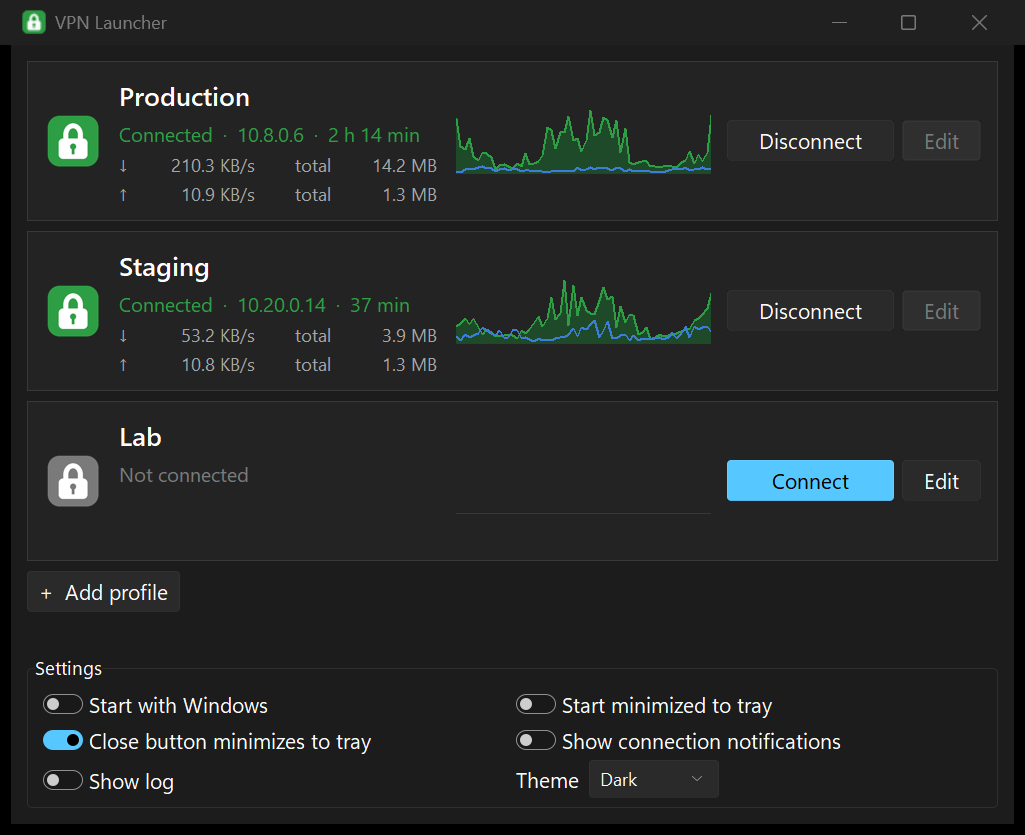
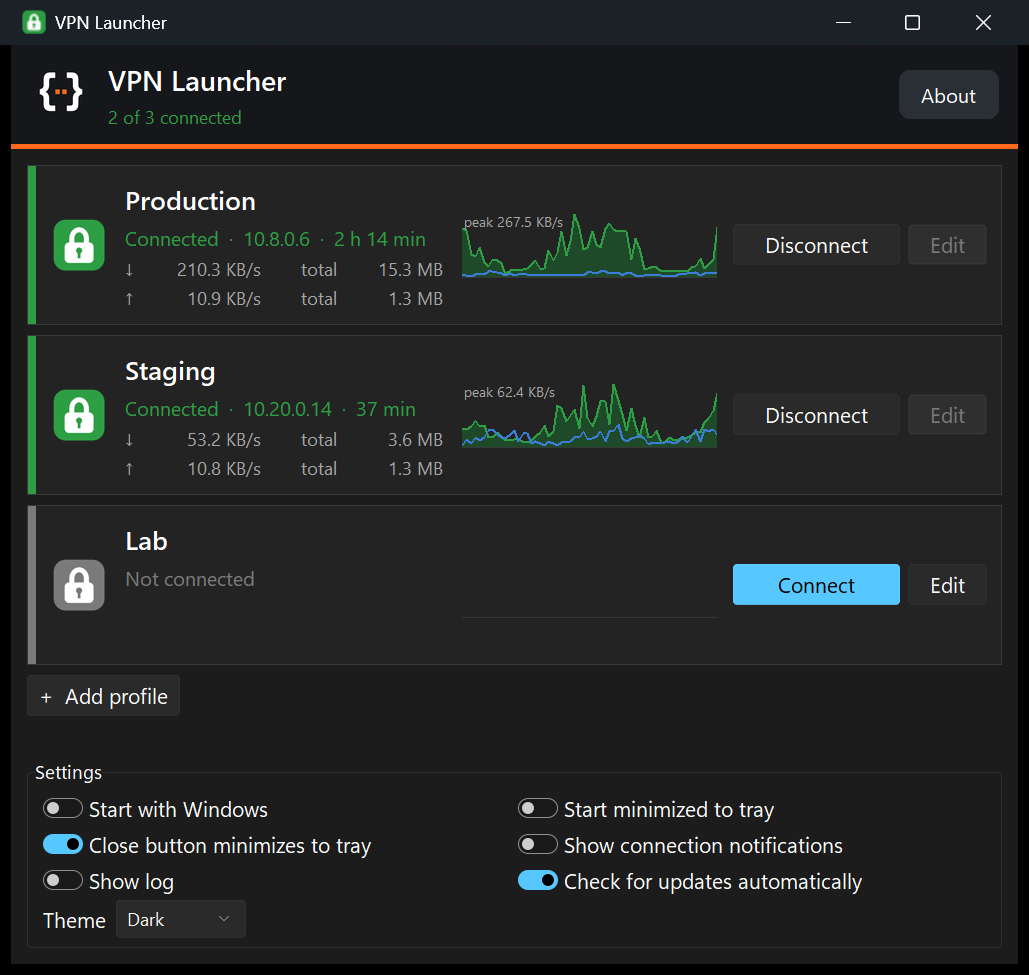
Add the About window, a branded header and self-update
The window gets a header in the Mancubus Lab colours with the logo and a connection summary, an About window with the version and a link to the site, a state stripe on every card and the peak value on the traffic graph. The launcher checks the repository's releases and installs a newer one on request after verifying its SHA-256 checksum; the build embeds the version. Profiles imported from a file are copied to the work folder for the connection, because OpenVPN started through its service exits on a profile under %APPDATA%.

diff --git a/src/vpn_launcher.py b/src/vpn_launcher.py
@@ -31,7 +31,9 @@ import sys
 import threading
 import time
 import tkinter as tk
+import urllib.request
 import uuid
+import webbrowser
 from pathlib import Path
 from tkinter import filedialog, font as tkfont, messagebox, ttk
 
@@ -90,6 +92,11 @@ PALETTES = {
              "text": "#ffffff", "log": "#d4d4d4"},
 }
 UPLOAD = "#3b7dd8"
+# Mancubus Lab colours for the header: the same in both themes.
+BRAND = {"bg": "#15171a", "ink": "#ffffff", "muted": "#b9c0c9", "accent": "#ff681c"}
+WEBSITE = "https://mancubus-lab.com/"
+REPOSITORY = "mancubus-lab/vpn-launcher"  # releases of this repository are the update channel
+UPDATE_CHECK_MS = 6 * 60 * 60 * 1000
 NIIF_USER_LARGE = 0x4 | 0x20  # NIIF_USER | NIIF_LARGE_ICON: the notification shows our icon, not the blue "i"
 # Setting key, checkbox label, default value.
 CHECKBOXES = [
@@ -98,8 +105,85 @@ CHECKBOXES = [
     ("close_to_tray", "Close button minimizes to tray" if WINDOWS else "Close button hides to the menu bar", True),
     ("notify", "Show connection notifications", True),
     ("show_log", "Show log", False),
+    ("check_updates", "Check for updates automatically", True),
 ]
 THEMES = {"Auto": "auto", "Light": "light", "Dark": "dark"}  # label in the settings -> stored value
+
+
+def resource(name):
+    """A bundled file: next to the code in a build, in assets/ when running from a checkout."""
+    bundled = RESOURCES / name
+    return bundled if bundled.exists() else RESOURCES.parent / "assets" / name
+
+
+# The build writes the release version into version.txt; a checkout has none and never offers updates.
+VERSION = resource("version.txt").read_text().strip() if resource("version.txt").exists() else "dev"
+
+
+def parse_version(text):
+    """(1, 2, 3) for "1.2.3" or "v1.2.3"; None for anything else, including "dev"."""
+    found = re.fullmatch(r"v?(\d+)\.(\d+)\.(\d+)", text.strip())
+    return tuple(int(part) for part in found.groups()) if found else None
+
+
+def find_update(release, current, suffix):
+    """(version, installer URL, checksum URL) when a GitHub release is newer than the running version.
+
+    suffix picks the download for this system. Only files of our own repository's releases are accepted,
+    and only together with their .sha256 file.
+    """
+    latest, running = parse_version(str(release.get("tag_name", ""))), parse_version(current)
+    if not latest or not running or latest <= running:
+        return None
+    prefix = f"https://github.com/{REPOSITORY}/releases/download/"
+    links = {asset.get("name", ""): asset.get("browser_download_url", "") for asset in release.get("assets", [])}
+    links = {name: link for name, link in links.items() if link.startswith(prefix)}
+    installer = next((name for name in links if name.endswith(suffix)), None)
+    if not installer or installer + ".sha256" not in links:
+        return None
+    return ".".join(str(part) for part in latest), links[installer], links[installer + ".sha256"]
+
+
+_sample_release = {"tag_name": "v1.2.0", "assets": [
+    {"name": name, "browser_download_url": f"https://github.com/{REPOSITORY}/releases/download/v1.2.0/{name}"}
+    for name in ("Setup-1.2.0.exe", "Setup-1.2.0.exe.sha256", "App-1.2.0-arm64.dmg")]}
+assert parse_version("v1.10.3") == (1, 10, 3) and parse_version("dev") is None
+assert find_update(_sample_release, "1.1.9", ".exe")[0] == "1.2.0"
+assert find_update(_sample_release, "1.2.0", ".exe") is None and find_update(_sample_release, "dev", ".exe") is None
+assert find_update(_sample_release, "1.0.0", ".dmg") is None  # no checksum file next to it
+assert find_update({"tag_name": "v9.0.0", "assets": [{"name": "x.exe", "browser_download_url": "https://evil/x.exe"},
+                                                     {"name": "x.exe.sha256", "browser_download_url": "https://evil/s"}]},
+                   "1.0.0", ".exe") is None
+
+
+def fetch(url, limit=200_000_000):
+    """Downloads a URL over HTTPS and returns the bytes."""
+    request = urllib.request.Request(url, headers={"User-Agent": "vpn-launcher", "Accept": "application/vnd.github+json"})
+    with urllib.request.urlopen(request, timeout=30) as reply:
+        return reply.read(limit)
+
+
+def check_update():
+    """The newer release for this system as find_update() describes it, or None (also when offline)."""
+    try:
+        release = json.loads(fetch(f"https://api.github.com/repos/{REPOSITORY}/releases/latest"))
+        return find_update(release, VERSION, ".exe" if WINDOWS else "-arm64.dmg")
+    except (OSError, ValueError, AttributeError):
+        return None
+
+
+def download_update(update):
+    """Downloads the installer of an update, checks it against its SHA-256 file and returns the path."""
+    _, installer_url, checksum_url = update
+    folder = WORK / "update"
+    folder.mkdir(parents=True, exist_ok=True)
+    expected = fetch(checksum_url, 1000).decode("ascii", "replace").split()[0].lower()
+    data = fetch(installer_url)
+    if hashlib.sha256(data).hexdigest() != expected:
+        raise ValueError("The downloaded update does not match its checksum.")
+    path = folder / installer_url.rsplit("/", 1)[-1]
+    path.write_bytes(data)
+    return path
 
 
 def icon_path(state):
@@ -511,6 +595,76 @@ def field(parent, row, label, variable, **options):
     return entry
 
 
+def pill_button(parent, text, command, primary=False):
+    """Rounded button for the dark branded areas, where the themed ttk buttons look out of place.
+
+    The shape is a picture drawn with Pillow (Tk has no rounded widgets) with the text centred on it;
+    primary=True gives the orange accent button, otherwise a quiet dark one.
+    """
+    scale = display_scale(parent)
+    font = tkfont.Font(family="Segoe UI", size=10)
+    width = font.measure(text) + round(30 * scale)
+    height = font.metrics("linespace") + round(14 * scale)
+
+    def shape(color):
+        # Drawn four times larger and scaled down: that is what smooths the corners.
+        large = Image.new("RGBA", (width * 4, height * 4), (0, 0, 0, 0))
+        ImageDraw.Draw(large).rounded_rectangle((0, 0, width * 4 - 1, height * 4 - 1),
+                                                radius=round(7 * scale) * 4, fill=color)
+        return ImageTk.PhotoImage(large.resize((width, height), Image.LANCZOS))
+
+    normal, hover = (shape(BRAND["accent"]), shape("#ff8647")) if primary else (shape("#2a2f36"), shape("#3b424c"))
+    button = tk.Label(parent, image=normal, text=text, compound="center", font=font, fg=BRAND["ink"],
+                      bg=BRAND["bg"], cursor="hand2", borderwidth=0, takefocus=True)
+    button.shapes = normal, hover  # Tk does not keep the pictures alive by itself
+    button.bind("<Enter>", lambda event: button.configure(image=hover))
+    button.bind("<Leave>", lambda event: button.configure(image=normal))
+    button.bind("<Button-1>", lambda event: command())
+    button.bind("<Return>", lambda event: command())
+    return button
+
+
+def show_about(root, check_for_updates):
+    """About window in the Mancubus Lab colours: logo, version, copyright and a link to the site."""
+    box = new_dialog(root)
+    box.configure(bg=BRAND["bg"])
+    body = tk.Frame(box, bg=BRAND["bg"], padx=44, pady=30)
+    body.pack()
+
+    def text(content, color, font, **packing):
+        label = tk.Label(body, text=content, bg=BRAND["bg"], fg=color, font=font)
+        label.pack(**packing)
+        return label
+
+    try:
+        side = round(104 * display_scale(root))
+        logo = ImageTk.PhotoImage(Image.open(resource("mancubus-lab.png")).resize((side, side), Image.LANCZOS))
+        picture = tk.Label(body, image=logo, bg=BRAND["bg"])
+        picture.image = logo  # Tk does not keep the picture alive by itself
+        picture.pack()
+    except OSError:
+        pass  # the logo file is missing: the text below says the same
+    text("VPN Launcher", BRAND["ink"], ("Segoe UI Semibold", 17), pady=(16, 0))
+    text(f"Version {VERSION}", BRAND["muted"], ("Segoe UI", 10))
+    text("One-click OpenVPN connections with one-time codes.", BRAND["muted"], ("Segoe UI", 10), pady=(12, 14))
+    link = text("mancubus-lab.com", BRAND["accent"], ("Segoe UI", 11, "underline"))
+    link.configure(cursor="hand2")
+    link.bind("<Button-1>", lambda event: webbrowser.open(WEBSITE))
+    text("© 2026 Mancubus Lab", BRAND["muted"], ("Segoe UI", 9), pady=(6, 18))
+
+    def check():
+        box.destroy()
+        check_for_updates()
+
+    row = tk.Frame(body, bg=BRAND["bg"])
+    row.pack()
+    pill_button(row, "Check for updates", check).pack(side="left", padx=5)
+    close = pill_button(row, "Close", box.destroy, primary=True)
+    close.pack(side="left", padx=5)
+    box.bind("<Escape>", lambda event: box.destroy())
+    show_modal(root, box, close)
+
+
 def ask_credentials(root, name, username):
     """Asks for the user name and the password of a profile without 1Password; (user, password) or None."""
     answer = []
@@ -733,8 +887,26 @@ def main():
     # traffic is the last sample: (time, bytes in, bytes out).
     # rates is the history for the graph: (bytes per second down, up).
     conns = {name: {"vpn": None, "busy": "", "log": "", "traffic": None, "rates": []} for name in names}
-    app = {"overall": None}
+    app = {"overall": None, "update": None}
     links, samples = {}, {}  # per connection: the open management link and the newest (time, in, out)
+
+    # Header in the Mancubus Lab colours: logo, name, a one-line summary, and the About and update buttons.
+    header = tk.Frame(root, bg=BRAND["bg"], padx=18, pady=12)
+    header.pack(fill="x")
+    tk.Frame(root, bg=BRAND["accent"], height=max(round(3 * display_scale(root)), 2)).pack(fill="x")
+    try:
+        mark_side = round(40 * display_scale(root))
+        mark = ImageTk.PhotoImage(Image.open(resource("mancubus-lab.png")).resize((mark_side, mark_side), Image.LANCZOS))
+        tk.Label(header, image=mark, bg=BRAND["bg"]).pack(side="left", padx=(0, 12))
+    except OSError:
+        mark = None  # the logo file is missing: the header shows the text alone
+    titles = tk.Frame(header, bg=BRAND["bg"])
+    titles.pack(side="left")
+    tk.Label(titles, text="VPN Launcher", bg=BRAND["bg"], fg=BRAND["ink"], font=("Segoe UI Semibold", 14)).pack(anchor="w")
+    summary = tk.Label(titles, text="Checking...", bg=BRAND["bg"], fg=BRAND["muted"], font=("Segoe UI", 9))
+    summary.pack(anchor="w")
+    pill_button(header, "About", lambda: about()).pack(side="right")
+    # The orange update button is put here by look_for_update() when a newer release exists.
 
     frame = ttk.Frame(root, padding=16)
     frame.pack(fill="both", expand=True)
@@ -855,8 +1027,13 @@ def main():
     # One card per connection: padlock indicator, name, status line, traffic graph and its own buttons.
     cards = {}
     for p in profiles:
-        card = tk.Frame(frame, bg=ui["card"], highlightthickness=1, highlightbackground=ui["border"], padx=16, pady=12)
-        card.pack(fill="x", pady=(0, 10))
+        # The outer frame is the card's border and holds a stripe in the state colour along the left edge.
+        shell = tk.Frame(frame, bg=ui["card"], highlightthickness=1, highlightbackground=ui["border"])
+        shell.pack(fill="x", pady=(0, 10))
+        stripe = tk.Frame(shell, bg=COLORS["off"], width=max(round(5 * display_scale(root)), 3))
+        stripe.pack(side="left", fill="y")
+        card = tk.Frame(shell, bg=ui["card"], padx=14, pady=12)
+        card.pack(side="left", fill="both", expand=True)
         card.columnconfigure(1, weight=1)
         lamp = tk.Label(card, image=pictures["off"], bg=ui["card"])
         lamp.grid(row=0, column=0, rowspan=3, padx=(0, 14))
@@ -880,7 +1057,7 @@ def main():
             flow.append(cell)
         graph = tk.Canvas(card, width=graph_size[0], height=graph_size[1], bg=ui["card"], highlightthickness=0)
         graph.grid(row=0, column=2, rowspan=3, padx=(16, 0))
-        cards[p["name"]] = lamp, line, button, flow, graph, edit_button
+        cards[p["name"]] = lamp, line, button, flow, graph, edit_button, stripe
 
     ttk.Button(frame, text="+  Add profile", command=lambda: edit(None)).pack(anchor="w", pady=(0, 6))
 
@@ -898,6 +1075,8 @@ def main():
         graph.create_polygon(down[0], height - 1, *down, down[-2], height - 1, fill=ui["fill"], outline="")
         graph.create_line(*down, fill=COLORS["on"], width=thick)
         graph.create_line(*graph_points([pair[1] for pair in rates], width, height, peak), fill=UPLOAD, width=thick)
+        # The scale of the graph: its highest value in the window shown.
+        graph.create_text(2, 0, anchor="nw", text=f"peak {format_bytes(peak)}/s", fill=ui["muted"], font=("Segoe UI", 7))
 
     hint = ttk.Label(frame, text="" if profiles else "No profiles yet: add one to get started.",
                      foreground="gray", wraplength=360)
@@ -909,6 +1088,7 @@ def main():
         lamp, line, button = cards[name][:3]
         shown = conn["vpn"] or "off"
         lamp.configure(image=pictures["connecting" if conn["busy"] else shown])
+        cards[name][6].configure(bg=COLORS["connecting" if conn["busy"] else shown])
         # The accent colour marks the action that starts something; Disconnect stays neutral.
         button.configure(text=conn["busy"] or ("Connect" if shown == "off" else "Disconnect"),
                          style="Accent.TButton" if shown == "off" and not conn["busy"] else "TButton")
@@ -951,6 +1131,9 @@ def main():
             update_card(name)
             if previous and previous != new and (new == "on" or previous == "on"):
                 notify(f"{name}: VPN connected" if new == "on" else f"{name}: VPN disconnected", text, new)
+        up = sum(conn["vpn"] == "on" for conn in conns.values())
+        summary.configure(text=f"{up} of {len(conns)} connected" if up else "Not connected",
+                          fg=COLORS["on"] if up else BRAND["muted"])
         overall = overall_state([conn["vpn"] for conn in conns.values()])
         if overall != app["overall"]:
             app["overall"] = overall
@@ -992,6 +1175,69 @@ def main():
         say(busy, name)
         background(lambda: run_script("-Name", name, *args, stdin_text=stdin_text),
                    lambda result: finish(name, result))
+
+    def look_for_update(asked=False):
+        """Asks GitHub for a newer release; asked=True when the user pressed the button and wants an answer."""
+        def shown(found):
+            if found and found != app["update"]:
+                if app.get("update_button"):
+                    app["update_button"].destroy()
+                app["update_button"] = pill_button(header, f"Update to {found[0]}", install_update, primary=True)
+                app["update_button"].pack(side="right", padx=(0, 10))
+            app["update"] = found
+            if found:
+                if asked:
+                    hint.configure(text=f"Version {found[0]} is available: press the update button at the top.")
+            elif asked:
+                hint.configure(text="This is a development copy, it does not update itself." if VERSION == "dev"
+                               else f"Version {VERSION} is the latest one, or the update server cannot be reached.")
+        background(check_update, shown)
+
+    def automatic_update_check():
+        root.after(UPDATE_CHECK_MS, automatic_update_check)
+        if settings["check_updates"]:
+            look_for_update()
+
+    def install_update():
+        """Downloads the new installer, checks it and hands over to it; VPN connections keep running."""
+        update = app["update"]
+        if not update or root.grab_current() or app.get("downloading"):
+            return
+        if any(conn["busy"] for conn in conns.values()):
+            hint.configure(text="Wait until the running connect or disconnect has finished.")
+            return
+        if not confirm(root, f"Download and install version {update[0]}?\n\n"
+                             "VPN connections stay up. The program closes and the installer takes over."):
+            return
+        app["downloading"] = True  # a second click must not start a second download
+        hint.configure(text=f"Downloading version {update[0]}...")
+
+        def download():
+            try:
+                return download_update(update)
+            except (OSError, ValueError, IndexError) as error:
+                return error
+
+        def downloaded(result):
+            app["downloading"] = False
+            if isinstance(result, Exception):
+                hint.configure(text=f"The update could not be downloaded: {result}")
+                return
+            say(f"Starting the installer of version {update[0]}: {result}")
+            if WINDOWS:
+                # /SILENT: no wizard pages. The installer asks for elevation itself and restarts the program.
+                ctypes.windll.shell32.ShellExecuteW(None, "open", str(result), "/SILENT", None, 1)
+                quit_app()  # the installer waits for the program to be closed
+            else:
+                # shortcut: on macOS the disk image is opened for the usual drag to Applications.
+                subprocess.run(["open", str(result)])
+                hint.configure(text="Quit VPN Launcher, then drag the new version to Applications.")
+
+        background(download, downloaded)
+
+    def about():
+        if not root.grab_current():
+            show_about(root, lambda: look_for_update(asked=True))
 
     # Settings as checkboxes; every change is saved and applied immediately.
     box = ttk.LabelFrame(frame, text="Settings", padding=(12, 6))
@@ -1060,7 +1306,7 @@ def main():
             conn = conns[p["name"]]
             verb = "Disconnect" if conn["vpn"] in ("connecting", "on") else "Connect"
             items.append((f"{verb} {p['name']}", lambda p=p: toggle(p), not conn["busy"] and conn["vpn"] is not None))
-        return items + [("Open window", show_window, True), ("Exit", quit_app, True)]
+        return items + [("Open window", show_window, True), ("About", about, True), ("Exit", quit_app, True)]
 
     def tray_tip():
         words = {None: "checking", "off": "off", "connecting": "connecting", "on": "connected"}
@@ -1149,6 +1395,7 @@ def main():
         root.report_callback_exception = lambda *error: (journal.error("Smoke test", exc_info=error), os._exit(1))
         root.after(5000, quit_app)
 
+    root.after(4000, automatic_update_check)
     refresh()
     root.mainloop()
 

diff --git a/README.md b/README.md
@@ -46,6 +46,8 @@
 - 🛡 **No elevation prompt on Windows** — OpenVPN is started through its interactive service.
 - 🖥 **Tray icon or menu bar item** with a menu, notifications and autostart.
 - 🌗 **Light, dark and automatic theme.**
+- ⬆ **Self-update** — the launcher checks the releases of this repository, and one click downloads the
+  new installer, verifies its SHA-256 checksum and installs it. VPN connections stay up meanwhile.
 - 📜 **A journal** in the window, also written to a log file (about 2 MB at most).
 
 ## 🪟 Windows
@@ -132,6 +134,15 @@ twice does not bring the first window forward; DNS servers pushed by the VPN ser
 - Windows users without administrator rights must be members of the local `OpenVPN Administrators`
   group. Setup adds the account that approved the elevation; add other accounts by hand.
 - Only one instance runs at a time; on Windows starting it again brings the running window to the front.
+- Updates are read from the public releases of this repository; a copy run from a checkout never updates
+  itself. On macOS the update opens the new disk image and the app is dragged to Applications by hand.
+
+---
+
+<p align="center">
+  <a href="https://mancubus-lab.com/"><img src="assets/mancubus-lab.png" width="56" alt="Mancubus Lab"></a><br>
+  © 2026 <a href="https://mancubus-lab.com/">Mancubus Lab</a>
+</p>
 
 ## 🛠 Development
 
